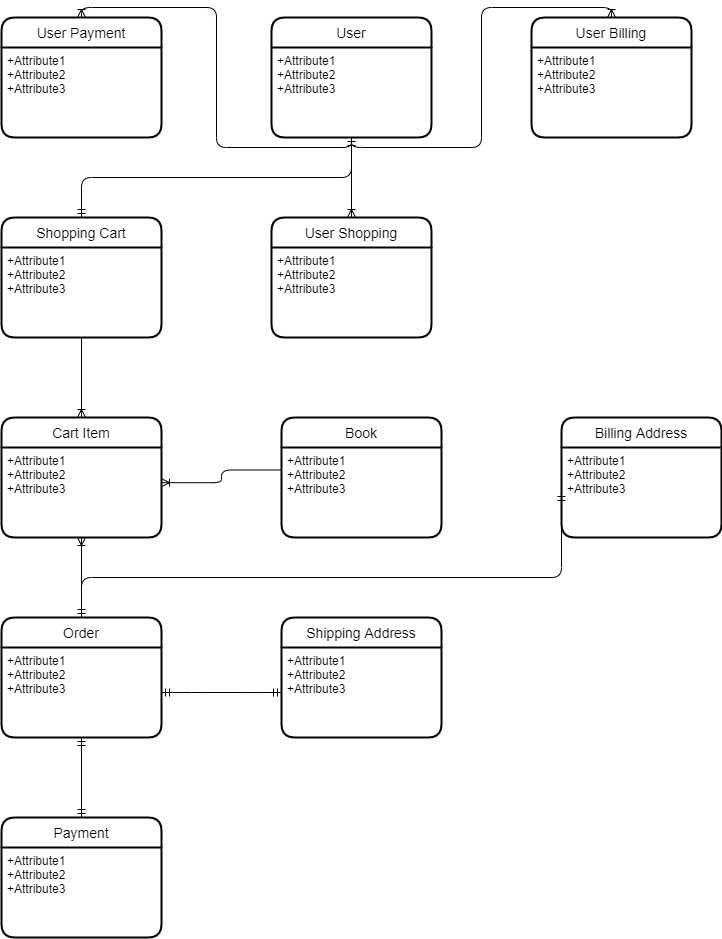
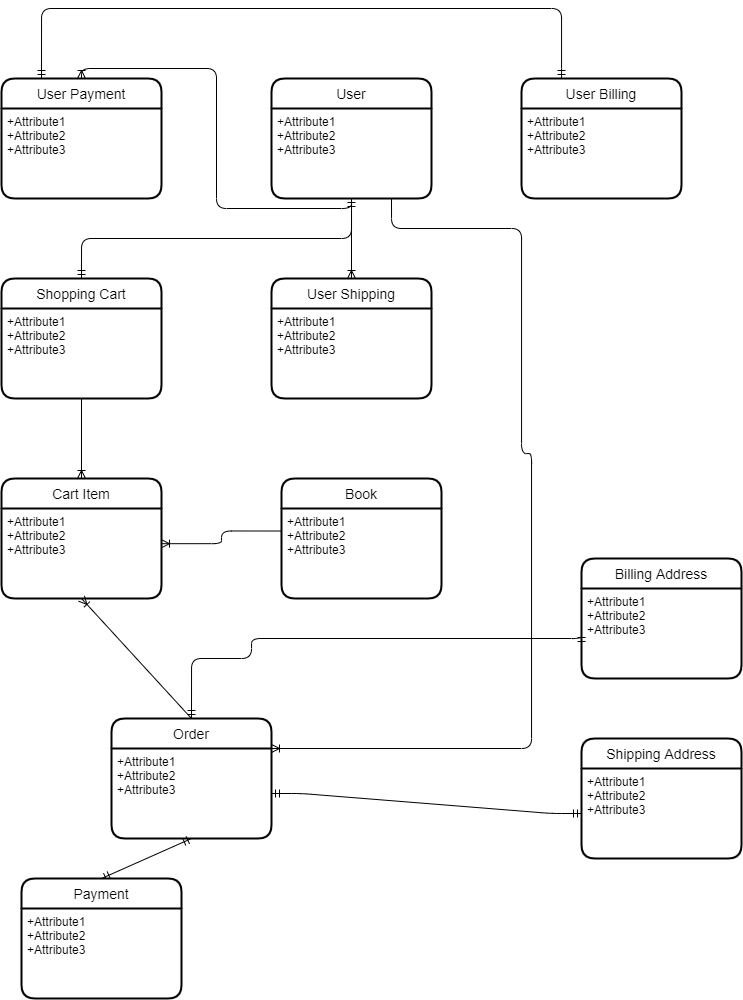
Order User relation

diff --git a/src/main/java/com/bookstore/domain/User.java b/src/main/java/com/bookstore/domain/User.java
@@ -56,6 +56,9 @@ public class User implements UserDetails {
     @JsonIgnore
     private Set<UserRole> userRoles = new HashSet<>();
 
+    @OneToMany(mappedBy = "user")
+    private List<Order> orderList;
+
     public Long getId() {
         return id;
     }
@@ -174,6 +177,14 @@ public class User implements UserDetails {
 
     public void setShoppingCart(ShoppingCart shoppingCart) {
         this.shoppingCart = shoppingCart;
+    }
+
+    public List<Order> getOrderList() {
+        return this.orderList;
+    }
+
+    public void setOrderList(List<Order> orderList) {
+        this.orderList = orderList;
     }
 
 }
